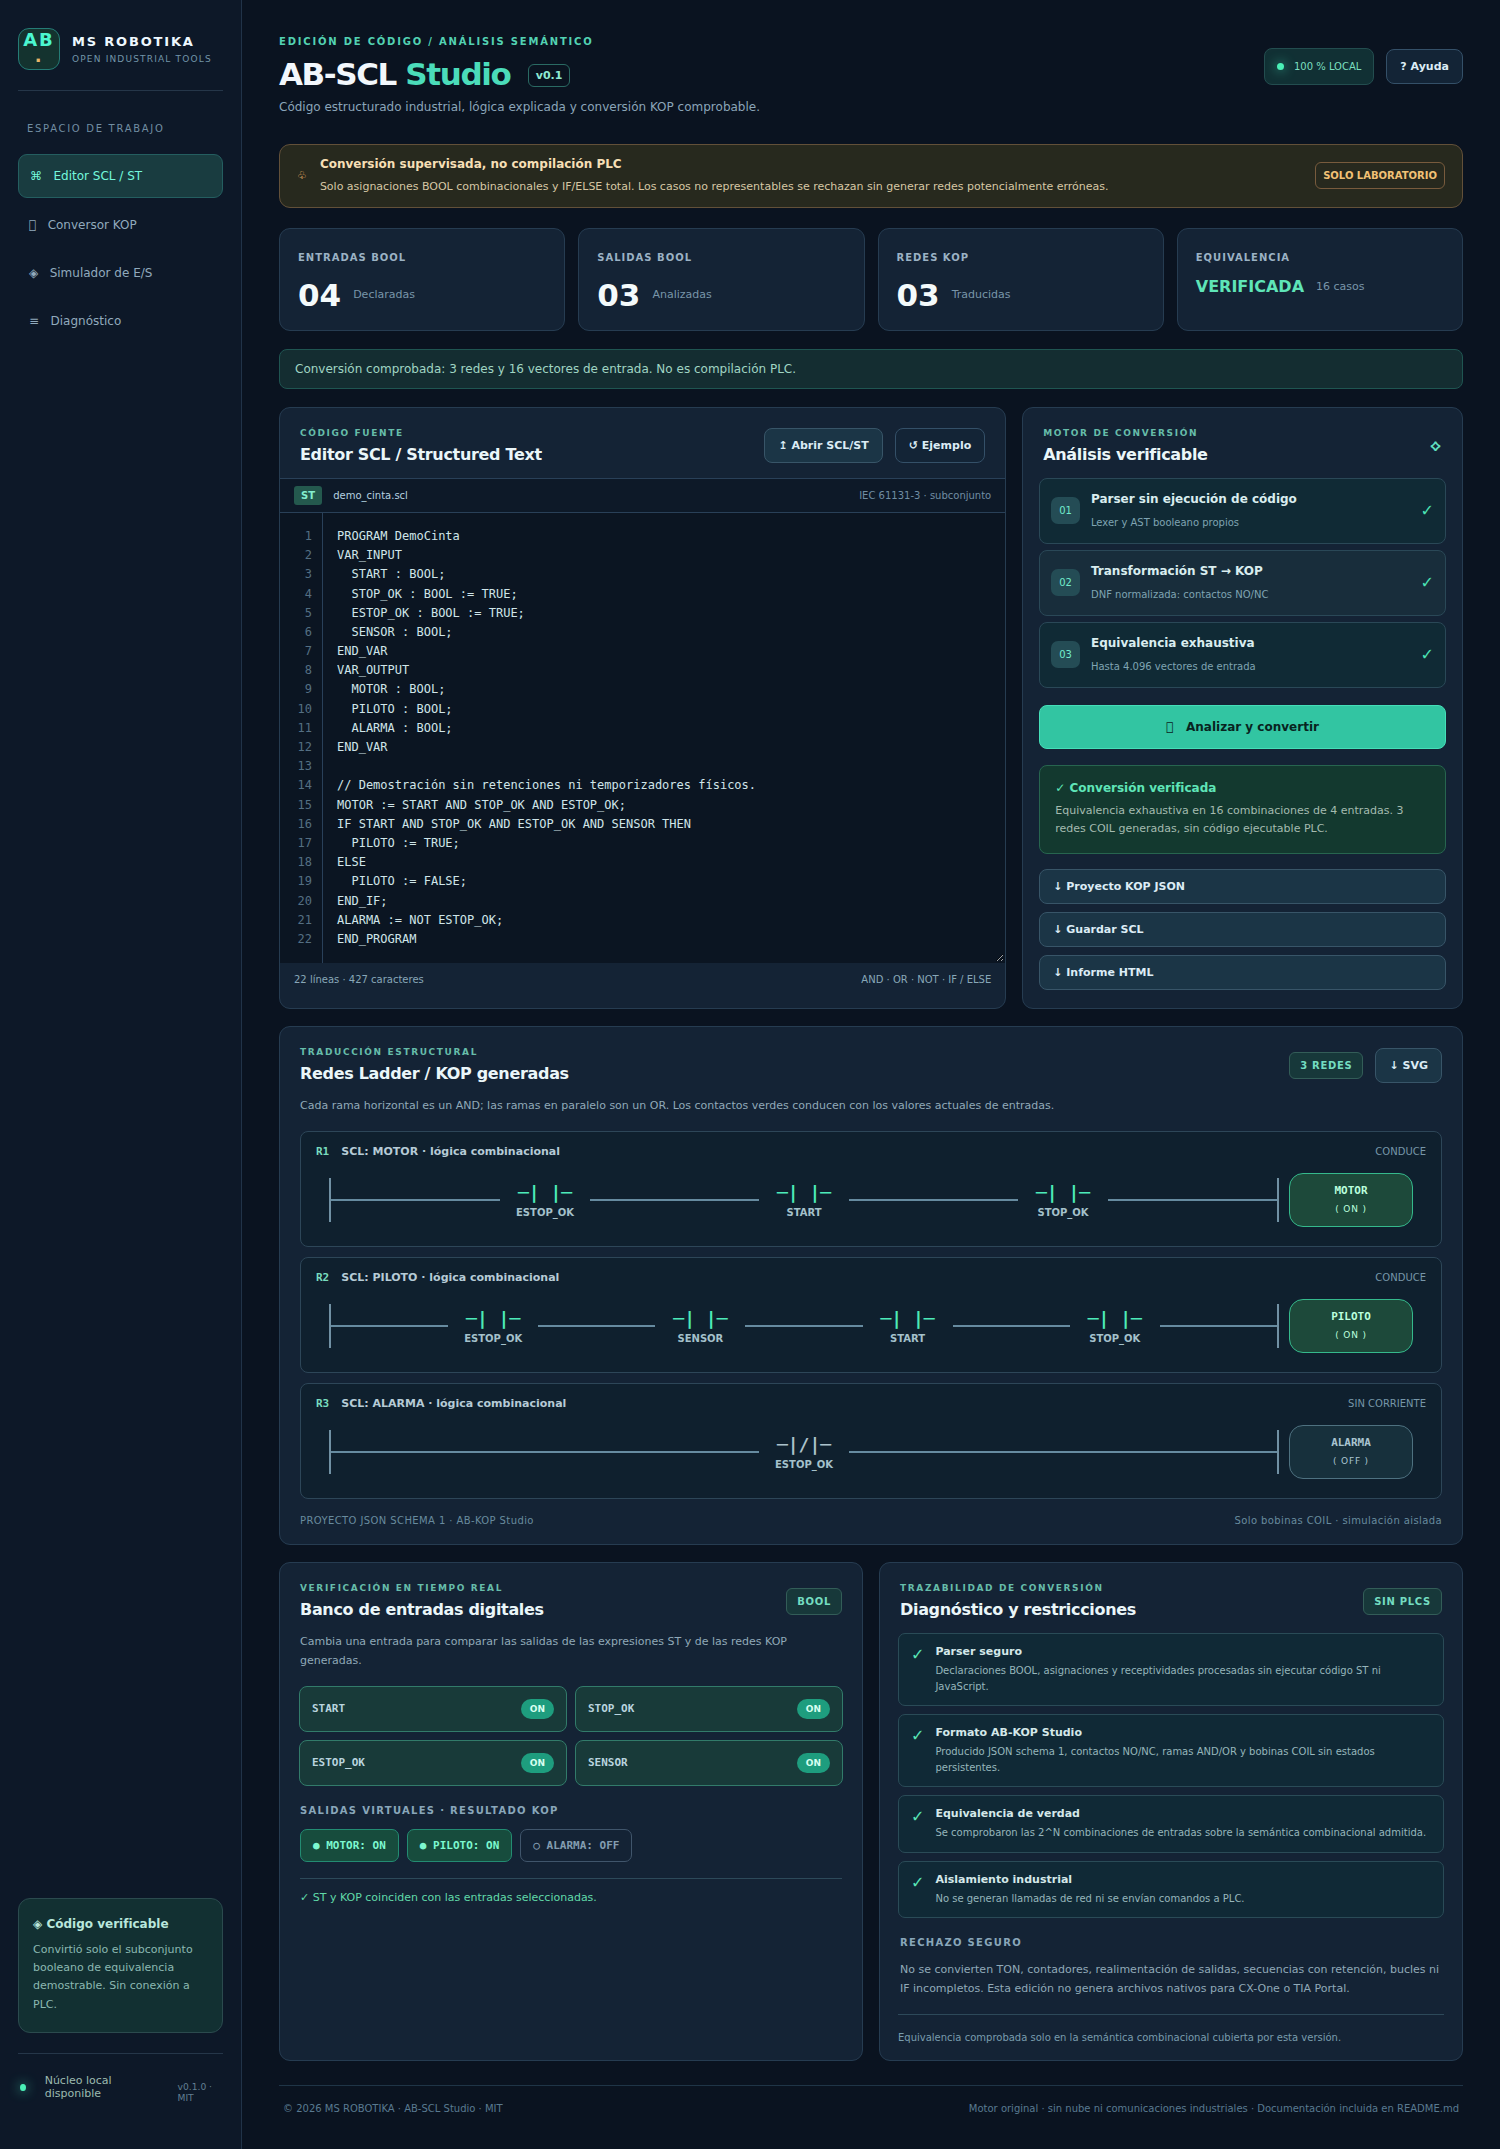
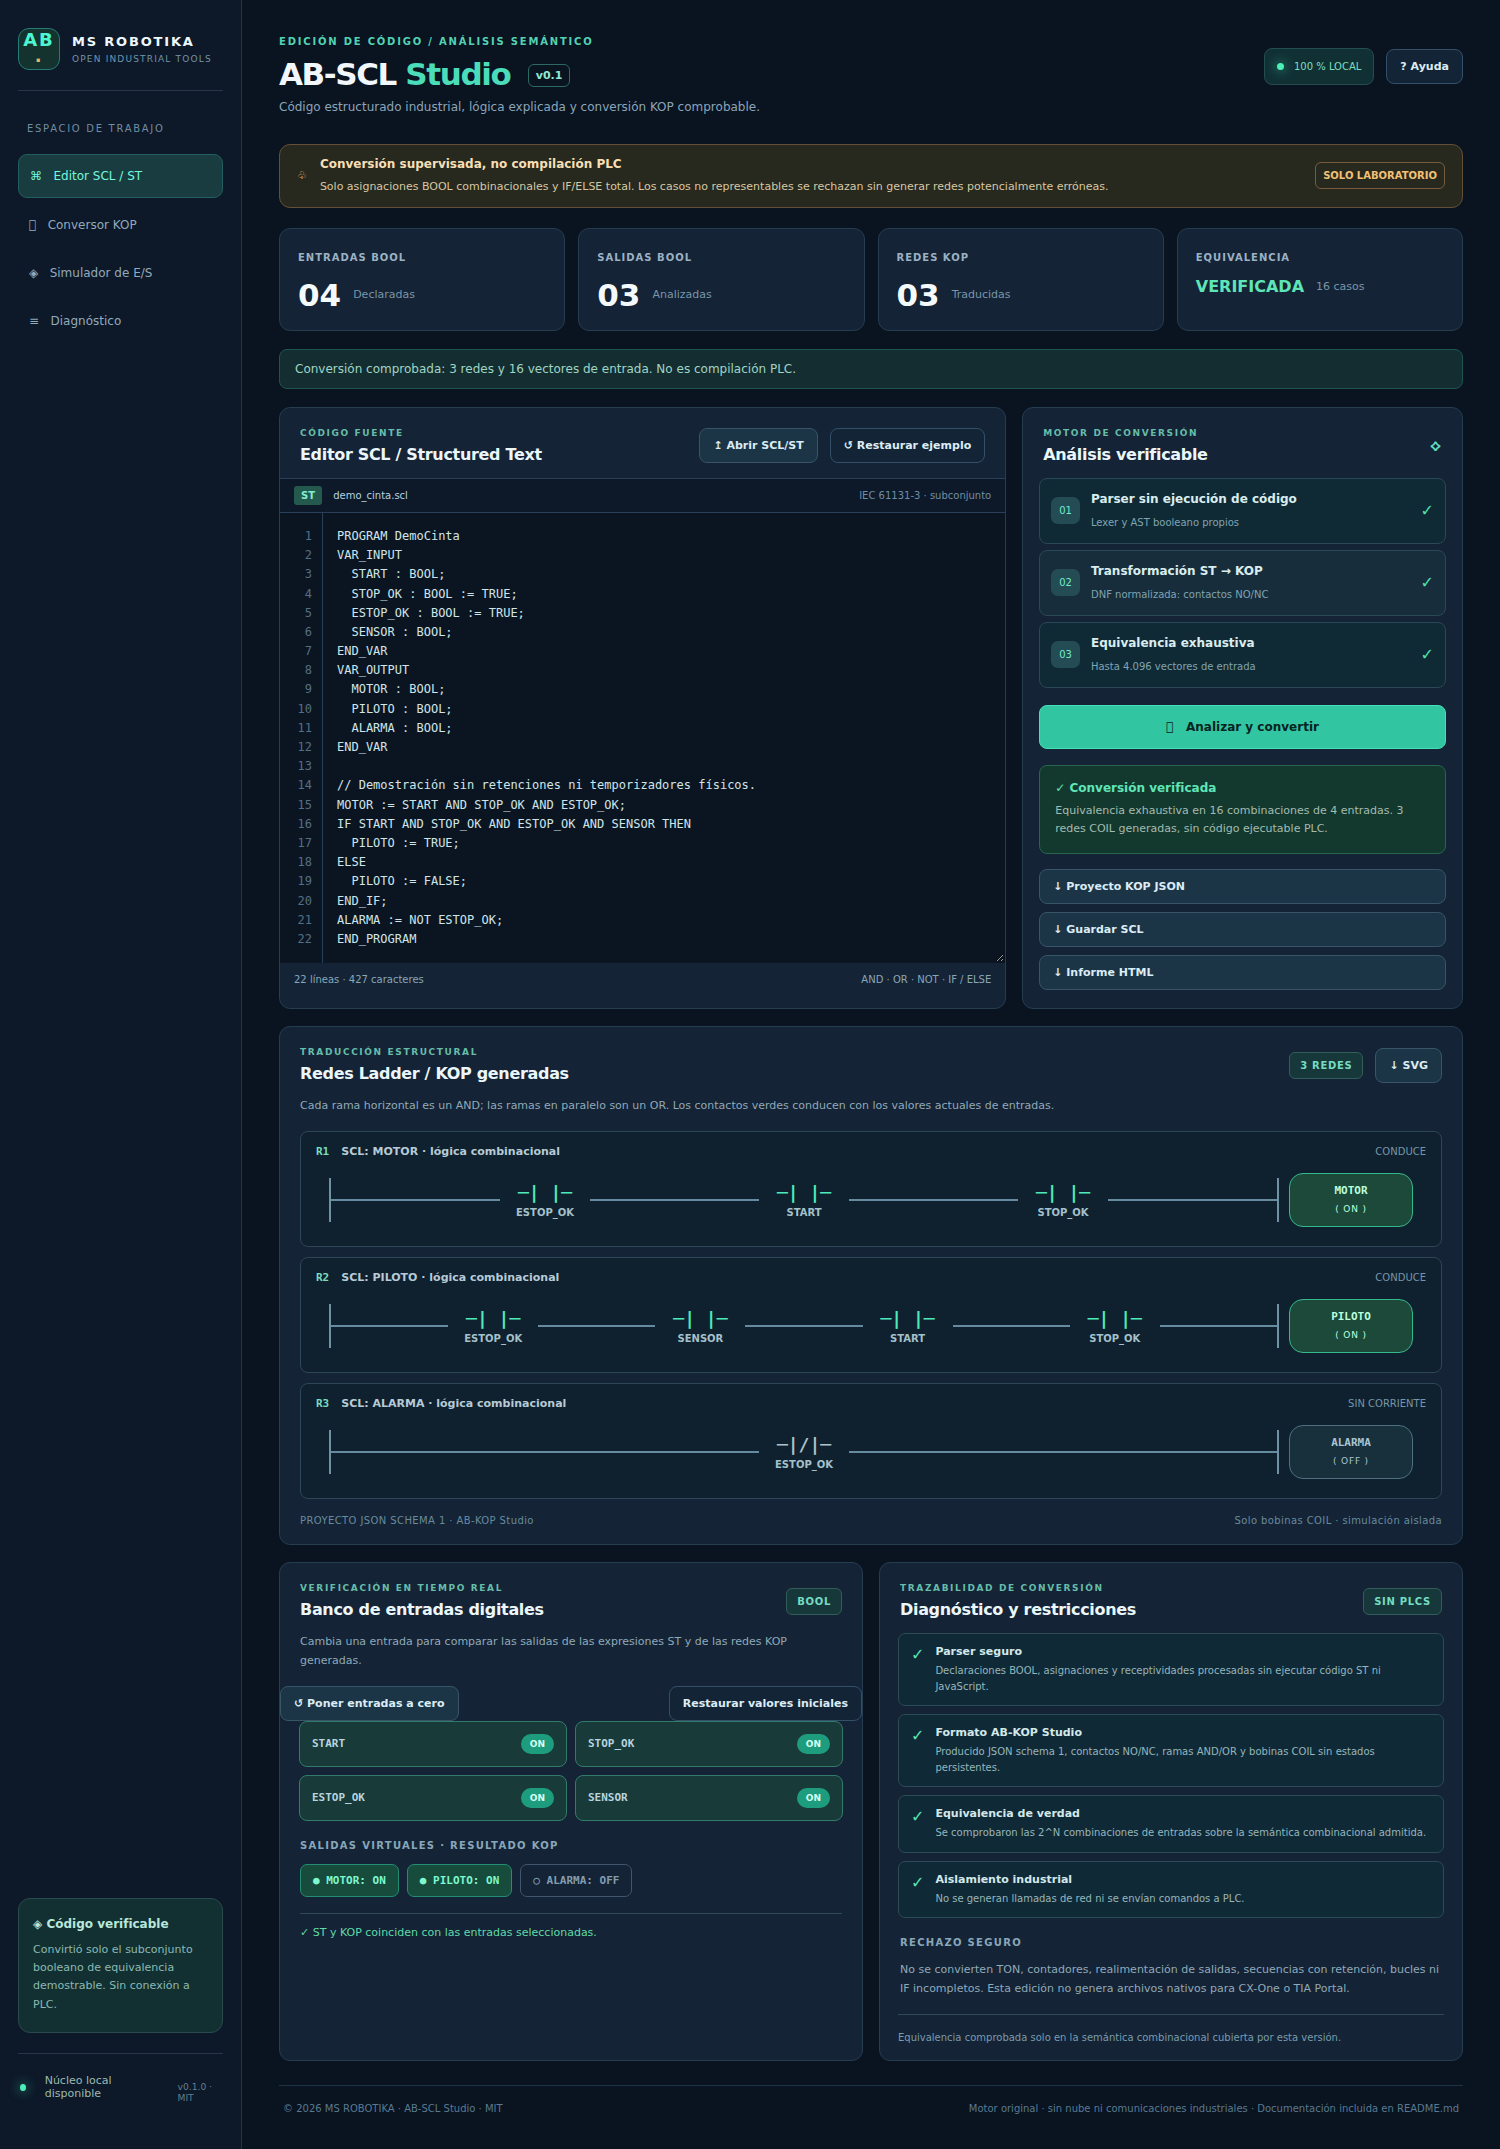
docs(scl): publish real verified Chromium screenshots

Changed region(s): [[0.184, 0.7794, 0.4293, 0.9041], [0.46, 0.7794, 0.5827, 0.8418], [0.4907, 0.1871, 0.6133, 0.2182]]

diff --git a/AB-SCL-Studio-PORTABLE.html b/AB-SCL-Studio-PORTABLE.html
@@ -12,9 +12,9 @@
 <div class="safety"><span class="safety-icon">♧</span><div><b>Conversión supervisada, no compilación PLC</b><span>Solo asignaciones BOOL combinacionales y IF/ELSE total. Los casos no representables se rechazan sin generar redes potencialmente erróneas.</span></div><strong>SOLO LABORATORIO</strong></div>
 <section class="metrics" aria-label="Estado del análisis"><div class="metric"><small>ENTRADAS BOOL</small><div><strong id="metric-inputs">04</strong><span>Declaradas</span></div></div><div class="metric"><small>SALIDAS BOOL</small><div><strong id="metric-outputs">03</strong><span>Analizadas</span></div></div><div class="metric"><small>REDES KOP</small><div><strong id="metric-rungs">03</strong><span>Traducidas</span></div></div><div class="metric"><small>EQUIVALENCIA</small><div><strong id="metric-status" class="metric-status good">VERIFICADA</strong><span id="metric-cases">16 casos</span></div></div></section>
 <div id="notice" class="notice" role="status" aria-live="polite">Ejemplo preparado. Revisa el SCL y pulsa Analizar y convertir.</div>
-<section class="workbench" id="workbench"><div class="editor-panel panel"><div class="section-head"><div><p class="eyebrow">CÓDIGO FUENTE</p><h2>Editor SCL / Structured Text</h2></div><div class="file-actions"><label class="button light file-label">↥ Abrir SCL/ST<input type="file" id="import-source" accept=".scl,.st,.txt,text/plain"></label><button class="button subtle" id="reset-code">↺ Ejemplo</button></div></div><div class="editor-hint"><span class="file-tab"><span>ST</span> demo_cinta.scl</span><span>IEC 61131-3 · subconjunto</span></div><div class="code-wrap"><pre id="line-numbers" aria-hidden="true">1</pre><textarea id="source" spellcheck="false" aria-label="Código fuente SCL/ST" maxlength="50000"></textarea></div><div class="editor-footer"><span id="source-info">0 líneas · sin archivo externo</span><span>AND · OR · NOT · IF / ELSE</span></div></div><aside class="conversion-panel panel"><div class="section-head"><div><p class="eyebrow">MOTOR DE CONVERSIÓN</p><h2>Análisis verificable</h2></div><span class="symbol">⟡</span></div><div class="pipeline"><div><span class="step-icon">01</span><div><b>Parser sin ejecución de código</b><small>Lexer y AST booleano propios</small></div><span id="step-parser" class="step-status">✓</span></div><div><span class="step-icon">02</span><div><b>Transformación ST → KOP</b><small>DNF normalizada: contactos NO/NC</small></div><span id="step-transform" class="step-status">✓</span></div><div><span class="step-icon">03</span><div><b>Equivalencia exhaustiva</b><small>Hasta 4.096 vectores de entrada</small></div><span id="step-verify" class="step-status">✓</span></div></div><button id="convert" class="button primary convert" type="button">⫸ &nbsp; Analizar y convertir</button><div id="conversion-result" class="conversion-result good"><b>✓ Conversión verificada</b><p>Las expresiones ST y las redes KOP entregan los mismos resultados para todas las combinaciones del ejemplo.</p></div><div class="conversion-actions"><button id="export-kop" class="button light" type="button">↓ Proyecto KOP JSON</button><button id="export-source" class="button light" type="button">↓ Guardar SCL</button><button id="export-report" class="button light" type="button">↓ Informe HTML</button></div></aside></section>
+<section class="workbench" id="workbench"><div class="editor-panel panel"><div class="section-head"><div><p class="eyebrow">CÓDIGO FUENTE</p><h2>Editor SCL / Structured Text</h2></div><div class="file-actions"><label class="button light file-label">↥ Abrir SCL/ST<input type="file" id="import-source" accept=".scl,.st,.txt,text/plain"></label><button class="button subtle" id="reset-code" type="button" title="Restaura el código de demostración; podrás recuperar el borrador anterior">↺ Restaurar ejemplo</button><button class="button light" id="undo-demo" type="button" hidden>↶ Recuperar borrador</button></div></div><div class="editor-hint"><span class="file-tab"><span>ST</span> demo_cinta.scl</span><span>IEC 61131-3 · subconjunto</span></div><div class="code-wrap"><pre id="line-numbers" aria-hidden="true">1</pre><textarea id="source" spellcheck="false" aria-label="Código fuente SCL/ST" maxlength="50000"></textarea></div><div class="editor-footer"><span id="source-info">0 líneas · sin archivo externo</span><span>AND · OR · NOT · IF / ELSE</span></div></div><aside class="conversion-panel panel"><div class="section-head"><div><p class="eyebrow">MOTOR DE CONVERSIÓN</p><h2>Análisis verificable</h2></div><span class="symbol">⟡</span></div><div class="pipeline"><div><span class="step-icon">01</span><div><b>Parser sin ejecución de código</b><small>Lexer y AST booleano propios</small></div><span id="step-parser" class="step-status">✓</span></div><div><span class="step-icon">02</span><div><b>Transformación ST → KOP</b><small>DNF normalizada: contactos NO/NC</small></div><span id="step-transform" class="step-status">✓</span></div><div><span class="step-icon">03</span><div><b>Equivalencia exhaustiva</b><small>Hasta 4.096 vectores de entrada</small></div><span id="step-verify" class="step-status">✓</span></div></div><button id="convert" class="button primary convert" type="button">⫸ &nbsp; Analizar y convertir</button><div id="conversion-result" class="conversion-result good"><b>✓ Conversión verificada</b><p>Las expresiones ST y las redes KOP entregan los mismos resultados para todas las combinaciones del ejemplo.</p></div><div class="conversion-actions"><button id="export-kop" class="button light" type="button">↓ Proyecto KOP JSON</button><button id="export-source" class="button light" type="button">↓ Guardar SCL</button><button id="export-report" class="button light" type="button">↓ Informe HTML</button></div></aside></section>
 <section id="converter" class="panel ladder-panel"><div class="section-head"><div><p class="eyebrow">TRADUCCIÓN ESTRUCTURAL</p><h2>Redes Ladder / KOP generadas</h2></div><div class="head-tools"><span id="rung-count" class="tag">3 REDES</span><button id="export-svg" class="button light" type="button">↓ SVG</button></div></div><p class="hint">Cada rama horizontal es un AND; las ramas en paralelo son un OR. Los contactos verdes conducen con los valores actuales de entradas.</p><div id="rungs" class="rung-list"></div><div class="ladder-foot"><span>PROYECTO JSON SCHEMA 1 · AB-KOP Studio</span><span>Solo bobinas COIL · simulación aislada</span></div></section>
-<section class="lower-grid"><div class="panel sim-panel" id="simulator"><div class="section-head"><div><p class="eyebrow">VERIFICACIÓN EN TIEMPO REAL</p><h2>Banco de entradas digitales</h2></div><span class="tag">BOOL</span></div><p class="hint">Cambia una entrada para comparar las salidas de las expresiones ST y de las redes KOP generadas.</p><div id="inputs" class="io-list"></div><div class="section-label">SALIDAS VIRTUALES · RESULTADO KOP</div><div id="outputs" class="output-list"></div><div id="simulation-status" class="check-line">✓ ST y KOP coinciden con las entradas seleccionadas.</div></div><div class="panel diag-panel" id="diagnostics"><div class="section-head"><div><p class="eyebrow">TRAZABILIDAD DE CONVERSIÓN</p><h2>Diagnóstico y restricciones</h2></div><span class="tag">SIN PLCS</span></div><div id="diagnostic-list" class="diagnostics"></div><div class="section-label">RECHAZO SEGURO</div><p class="hint">No se convierten TON, contadores, realimentación de salidas, secuencias con retención, bucles ni IF incompletos. Esta edición no genera archivos nativos para CX-One o TIA Portal.</p><div class="diagnostic-foot">Equivalencia comprobada solo en la semántica combinacional cubierta por esta versión.</div></div></section>
+<section class="lower-grid"><div class="panel sim-panel" id="simulator"><div class="section-head"><div><p class="eyebrow">VERIFICACIÓN EN TIEMPO REAL</p><h2>Banco de entradas digitales</h2></div><span class="tag">BOOL</span></div><p class="hint">Cambia una entrada para comparar las salidas de las expresiones ST y de las redes KOP generadas.</p><div class="file-actions" role="group" aria-label="Puesta a cero del simulador"><button id="zero-inputs" class="button light" type="button" title="Desactivar todas las entradas simuladas sin borrar el código">↺ Poner entradas a cero</button><button id="default-inputs" class="button subtle" type="button" title="Volver a los valores iniciales declarados en VAR_INPUT">Restaurar valores iniciales</button></div><div id="inputs" class="io-list"></div><div class="section-label">SALIDAS VIRTUALES · RESULTADO KOP</div><div id="outputs" class="output-list"></div><div id="simulation-status" class="check-line">✓ ST y KOP coinciden con las entradas seleccionadas.</div></div><div class="panel diag-panel" id="diagnostics"><div class="section-head"><div><p class="eyebrow">TRAZABILIDAD DE CONVERSIÓN</p><h2>Diagnóstico y restricciones</h2></div><span class="tag">SIN PLCS</span></div><div id="diagnostic-list" class="diagnostics"></div><div class="section-label">RECHAZO SEGURO</div><p class="hint">No se convierten TON, contadores, realimentación de salidas, secuencias con retención, bucles ni IF incompletos. Esta edición no genera archivos nativos para CX-One o TIA Portal.</p><div class="diagnostic-foot">Equivalencia comprobada solo en la semántica combinacional cubierta por esta versión.</div></div></section>
 <footer><span>© 2026 MS ROBOTIKA · AB-SCL Studio · MIT</span><span>Motor original · sin nube ni comunicaciones industriales · Documentación incluida en README.md</span></footer></main></div>
 <div id="help-dialog" class="modal" hidden><div role="dialog" aria-modal="true" aria-labelledby="help-heading"><div class="section-head"><h2 id="help-heading">Guía rápida · AB-SCL Studio</h2><button id="close-help" class="button">✕</button></div><p>Declara entradas en <code>VAR_INPUT</code> y salidas en <code>VAR_OUTPUT</code> como <code>BOOL</code>. Después asigna cada salida exactamente una vez mediante expresiones con <code>AND</code>, <code>OR</code> y <code>NOT</code>, o usa un <code>IF ... THEN ... ELSE ... END_IF;</code> que asigne las mismas salidas en ambas ramas.</p><p>Las salidas calculadas deben depender solo de entradas declaradas y deben expresarse con hasta 8 ramas de 12 contactos. El motor prueba todas las combinaciones de hasta 12 entradas para confirmar la equivalencia del subconjunto admitido. No significa que pueda convertir todo SCL/ST ni que el código sea apto para una máquina real.</p><p><strong>Exporta Proyecto KOP JSON</strong> para importar el resultado en AB-KOP Studio v0.1 y revisarlo visualmente.</p></div></div>
 <script>
@@ -161,7 +161,7 @@ return Object.freeze({lex,parse,evaluate,convert,dnf,verify,analyze,sample,examp
 /* SPDX-License-Identifier: MIT — Copyright (c) 2026 MS ROBOTIKA. */
 (()=>{'use strict';
 const core=window.ABSclCore,$=id=>document.getElementById(id);
-let data=null,signal=Object.create(null);
+let data=null,signal=Object.create(null),previousSource=null;
 const asText=(tag,value,cls)=>{const n=document.createElement(tag);if(value!==undefined)n.textContent=String(value);if(cls)n.className=cls;return n;};
 function notice(text,bad=false){$('notice').textContent=text;$('notice').classList.toggle('error',bad);}
 const countLines=()=>{const content=$('source').value;const lines=content.split('\n').length;$('line-numbers').textContent=Array.from({length:lines},(_,i)=>i+1).join('\n');$('source-info').textContent=`${lines} líneas · ${content.length} caracteres`;};
@@ -197,7 +197,10 @@ function init(){
  $('source').addEventListener('scroll',()=>{$('line-numbers').scrollTop=$('source').scrollTop;});
  $('source').addEventListener('keydown',e=>{if(e.key==='Tab'){e.preventDefault();const t=e.target,start=t.selectionStart,end=t.selectionEnd;t.setRangeText('  ',start,end,'end');t.dispatchEvent(new Event('input'));}});
  $('convert').addEventListener('click',analyze);
- $('reset-code').addEventListener('click',()=>{$('source').value=core.sample();countLines();analyze();});
+ $('reset-code').addEventListener('click',()=>{const sample=core.sample();previousSource=$('source').value===sample?null:$('source').value;$('undo-demo').hidden=previousSource===null;$('source').value=sample;countLines();analyze();notice('Ejemplo restaurado. Puedes recuperar tu borrador anterior cuando quieras.');});
+ $('undo-demo').addEventListener('click',()=>{if(previousSource===null)return;$('source').value=previousSource;previousSource=null;$('undo-demo').hidden=true;countLines();analyze();notice('Borrador anterior recuperado.');});
+ $('zero-inputs').addEventListener('click',()=>{if(!data)return notice('Analiza un SCL válido antes de reiniciar la simulación.',true);for(const name of data.ast.inputNames)signal[name]=false;renderInputs();displayValues();notice('Entradas virtuales puestas a cero. Código y redes KOP conservados.');});
+ $('default-inputs').addEventListener('click',()=>{if(!data)return notice('Analiza un SCL válido antes de restaurar las entradas.',true);signal=Object.assign(Object.create(null),data.ast.declarations.inputs);renderInputs();displayValues();notice('Entradas restauradas a los valores declarados en VAR_INPUT.');});
  $('import-source').addEventListener('change',async e=>{try{const f=e.target.files?.[0];if(!f)return;if(f.size>50000)throw Error('Máximo 50 KB para código fuente.');$('source').value=await f.text();countLines();analyze();}catch(err){notice('Importación rechazada: '+err.message,true);}finally{e.target.value='';}});
  $('export-source').addEventListener('click',()=>download('AB-SCL-Studio-proyecto.scl',$('source').value,'text/plain;charset=utf-8'));
  $('export-kop').addEventListener('click',()=>{if(needsData())download('AB-SCL-para-AB-KOP-Studio.json',JSON.stringify(data.model,null,2),'application/json;charset=utf-8');});
